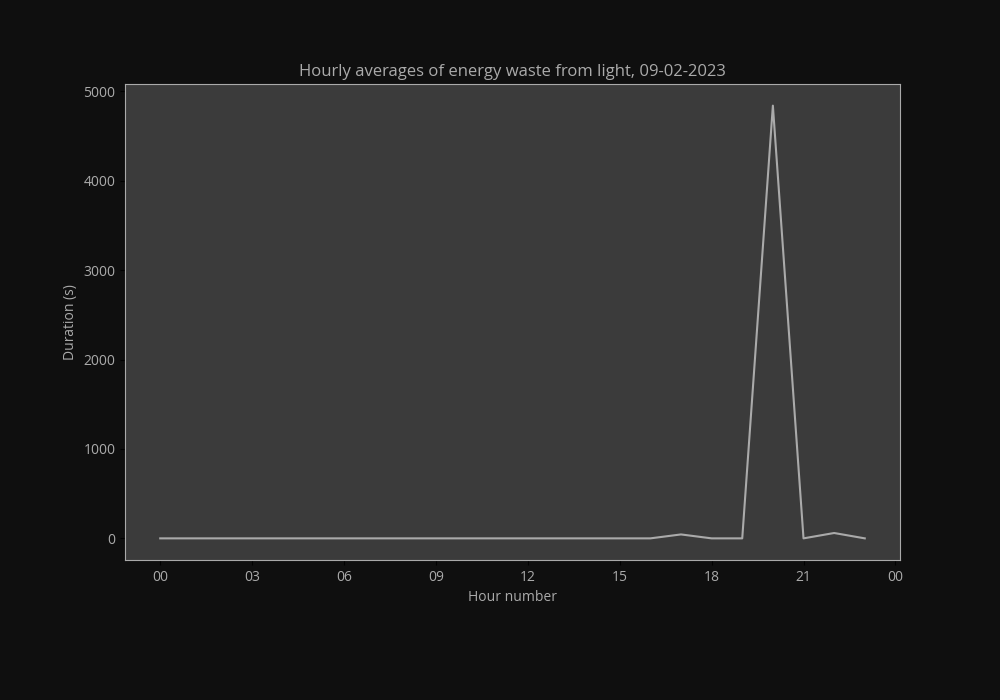
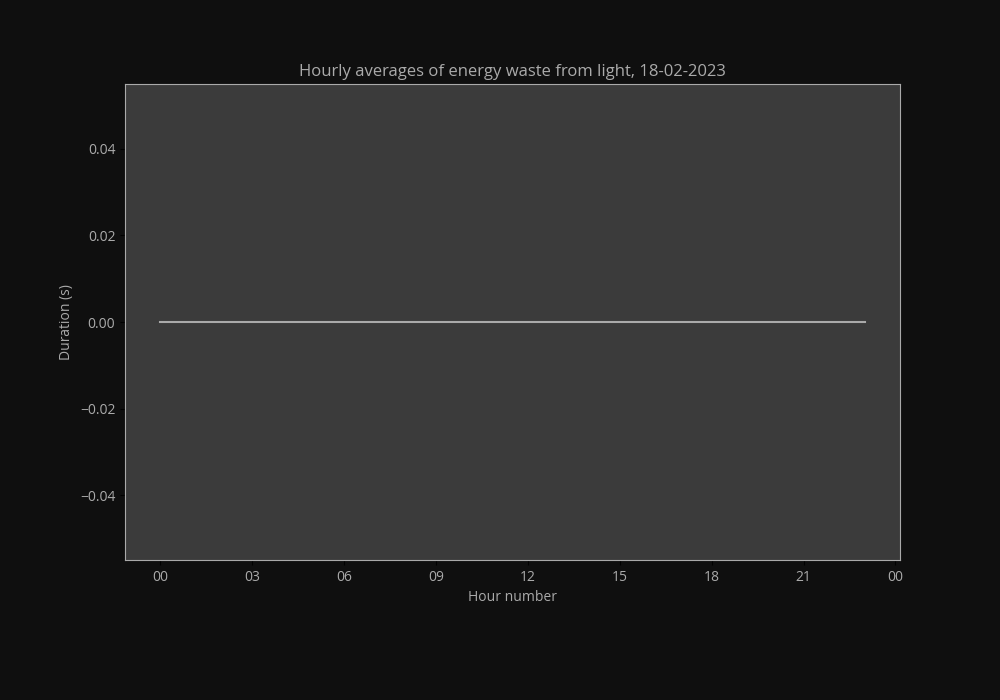
Fixed issue with graphs and data displaying wrong

diff --git a/Filament/light_monitoring/graphGenerator.py b/Filament/light_monitoring/graphGenerator.py
@@ -52,12 +52,7 @@ def secondsUnitConv(seconds):
 
 def getTot(hour=None, day=None, week=None, month=None, year=None):
     if hour:
-        qs = Data_Entry.objects.filter(startTime__hour = hour.hour) # Generate a QuerySet of all of the data gathered during the hour of the day
-        durations = []
-        for i in qs:
-            durations.append(int((i.endTime - i.startTime).total_seconds()))
-    elif year:
-        qs = Data_Entry.objects.filter(endTime__year = year) # Generate a QuerySet of all of the data gathered during the given year
+        qs = Data_Entry.objects.filter(startTime__hour = hour.hour, startTime__date = hour) # Generate a QuerySet of all of the data gathered during the hour of the day
         durations = []
         for i in qs:
             durations.append(int((i.endTime - i.startTime).total_seconds()))
@@ -67,7 +62,7 @@ def getTot(hour=None, day=None, week=None, month=None, year=None):
         for i in qs:
             durations.append(int((i.endTime - i.startTime).total_seconds()))
     elif week and year:
-        qs = Data_Entry.objects.filter(endTime__week = week).filter(endTime__year = year) # Generate a QuerySet of all of the data gathered during the given week in the given year
+        qs = Data_Entry.objects.filter(endTime__week = week, endTime__year = year) # Generate a QuerySet of all of the data gathered during the given week in the given year
         durations = []
         for i in qs:
             durations.append(int((i.endTime - i.startTime).total_seconds()))
@@ -76,12 +71,17 @@ def getTot(hour=None, day=None, week=None, month=None, year=None):
         durations = []
         for i in qs:
             durations.append(int((i.endTime - i.startTime).total_seconds()))
+    elif year:
+        qs = Data_Entry.objects.filter(endTime__year = year) # Generate a QuerySet of all of the data gathered during the given year
+        durations = []
+        for i in qs:
+            durations.append(int((i.endTime - i.startTime).total_seconds()))
     
     return sum(durations), len(durations)
 
 
 def calcHourAverage(dateHour):
-    tot, objs = getTot(dateHour)
+    tot, objs = getTot(hour=dateHour)
     try:
         avg = tot / objs
         return avg

diff --git a/Filament/light_monitoring/views.py b/Filament/light_monitoring/views.py
@@ -35,8 +35,8 @@ def filament(request):
         "month": monthTot,
         "yearlyAvg": yearAvg,
         "yearTot": yearTot,
-        "dailyCosts": f"{energyPrices.calcPrices(power, time, numBulbs, energyCosts):.2f}",
-        "weeklyCosts": f"{energyPrices.calcPrices(power, time, numBulbs, energyCosts):.2f}",
+        "dailyCosts": f"{energyPrices.calcPrices(power, getTot(day=now.date())[0] / 3600, numBulbs, energyCosts):.2f}",
+        "weeklyCosts": f"{energyPrices.calcPrices(power, getTot(week=now.isocalendar()[1], year=now.year)[0] / 3600, numBulbs, energyCosts):.2f}",
 
     }
     return render(request, 'light_monitoring/filament.html', context)
